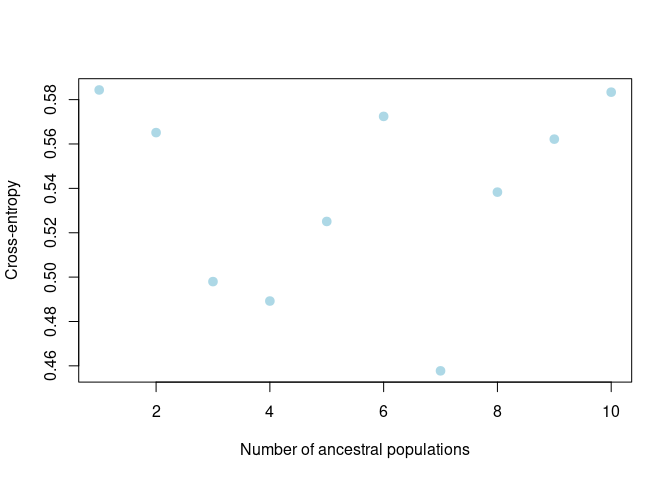
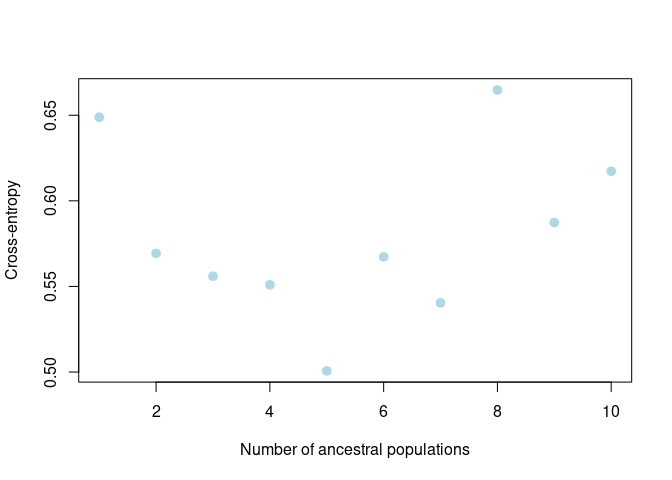
Bug correction (computation of monomorphic loci, metapop)

diff --git a/FORGENIUS-pipeline.md b/FORGENIUS-pipeline.md
@@ -1,7 +1,7 @@
 FORGENIUS-pipeline, test 20 SNPs
 ================
 SCGM & MW
-2024-10-18
+2025-01-12
 
 Load packages
 
@@ -20,12 +20,12 @@ library(miscTools)
 library(dartR)
 library(poppr)
 library(ggplot2)
+library(kableExtra)
 
 # maybe needed, to check:
 #library(knitr)
 #library(htmltools)
 #library(stringr)
-#library(kableExtra)
 #library(radiant.data)
 
 
@@ -45,9 +45,11 @@ Read data, filtering and convert to different formats
 # keep only random SNPs in VCF file using a bed file to filter in vcftools
 # system2("functions/extract_random.sh") # change input and output file names in functions/extract_random.sh
 
-# read data from VCF into genind format
+# define file name
 species_name = "Aalba" #change species name if needed
 suffix = "_20SNPs" #change suffix if needed
+
+# read data from VCF into genind format
 data_file <- paste("data/", species_name, suffix, ".vcf.gz", sep="")
 data_vcf <- read.vcfR(data_file) 
 ```
@@ -75,9 +77,10 @@ data_genind <- vcfR2genind(data_vcf)
 pop(data_genind) <- substr(indNames(data_genind), 1,8) #takes pop name from the first 8 digits of sample name, e.g. AUT00215
 
 # read data from genotype file (e.g., from Axiom chips) into genind format
-#data <- read.table("data/POPGEN_data_curated_Affx_2use_JULY2022_miss30.txt", header=T)
-#data[1:10,1:10] %>% kable_mydf(boldfirstcolumn = F, font_size = 11) # visualization
-#data_genind <- df2genind(X = data[, -(1:2)], sep="/", pop = data[, 2], ind.names = data[, 1], NA.char ="NA") #change column numbers, separator or missing data string if needed
+# data_file <- paste("data/", species_name, suffix, ".txt", sep="")
+# data <- read.table(data_file, header=T)
+# data[1:10,1:10] %>% kable_mydf(boldfirstcolumn = F, font_size = 11) # visualization
+# data_genind <- df2genind(X = data[, -(1:2)], sep="/", pop = data[, 2], ind.names = data[, 1], NA.char ="NA") #change column numbers, separator or missing data string if needed
 
 # Remove loci with too much missing data from genind object
 #data_genind <- missingno(data_genind, type = "loci", cutoff = 0.05, quiet = FALSE, freq = FALSE)
@@ -90,8 +93,17 @@ pop(data_genind) <- substr(indNames(data_genind), 1,8) #takes pop name from the 
 #data_genind = data_genind[loc=loci2keep] # filter by locus name in list
 
 # Filter by Minor Allele Frequency (MAF) from genind object
-#data_genind <- informloci(data_genind, cutoff = 2/nInd(data_genind), MAF = 0.01, quiet = FALSE)
+data_genind <- informloci(data_genind, cutoff = 2/nInd(data_genind), MAF = 0.00, quiet = FALSE) # Keep at least 0.00, to remove monomorphic loci in the full dataset
+```
 
+    ## cutoff value: 0.484261501210654 % ( 2 samples ).
+
+    ## MAF         : 0
+
+    ## 
+    ## All sites polymorphic
+
+``` r
 # extract individual names
 individual_names<-indNames(data_genind)
 
@@ -218,29 +230,29 @@ barchart (data_snmf, best_K, best_run, sort.by.Q = T, col = rainbow(best_K), bor
 ![](FORGENIUS-pipeline_files/figure-gfm/Estimate%20admixture%20coefficients-2.png)<!-- -->
 
     ## $order
-    ##   [1]  14  16  79  83 143 206 208 211 212 269 273 274 275 279 281 288 305 307
-    ##  [19] 318 320 338 350 355 357 370 374 381  11  19  23  27  37  38  56  59  65
-    ##  [37]  69  70  72  74  76  80  82  84  88 125 139 170 171 181 190 191 194 200
-    ##  [55] 224 242 243 246 248 250 256 259 270 271 276 282 285 289 290 292 294 297
-    ##  [73] 300 303 308 309 317 328 334 339 340 343 345 346 349 352 366 367 378 384
-    ##  [91] 386 392 398 399 408  30  32  34  54  60  62  63 114 119 130 136 138 142
-    ## [109] 154 164 165 180 188 189 195 196 198 202 214 240 241 247 249 251 252 255
-    ## [127] 257 258 260 263 264 265 266 286 293 301 302 310 311 313 315 316 322 323
-    ## [145] 324 325 326 327 329 330 332 336 341 342 344 348 351 354 360 364 369 376
-    ## [163] 377 380 385 387 391 394 396 397 400 403 405 406 410 411 413   3   9  12
-    ## [181]  13  20  21  24  25  28  29  33  35  40  43  44  45  47  50  51  52  53
-    ## [199]  61  64  67  73  75  78  81  85  86  87  89  92  94  99 101 103 106 109
-    ## [217] 112 115 116 117 120 121 122 126 127 128 129 132 134 135 137 140 155 162
-    ## [235] 163 166 167 168 173 178 179 183 185 187 192 193 197 199 204 205 207 209
-    ## [253] 218 219 220 229 230 233 234 239 244 254 262 272 277 278 280 283 287 291
-    ## [271] 296 299 306 321 331 333 337 347 356 358 359 363 368 371 373 379 382 383
-    ## [289] 389 401 404 407 412   1   2   4   5   6   7   8  10  15  17  18  22  26
-    ## [307]  31  36  39  41  42  46  48  49  55  57  58  66  68  71  77  90  91  93
-    ## [325]  95  96  97  98 100 102 104 105 107 108 110 111 113 118 123 124 131 133
-    ## [343] 141 144 145 146 147 148 149 150 151 152 153 156 157 158 159 160 161 169
-    ## [361] 172 174 175 176 177 182 184 186 201 203 210 213 215 216 217 221 222 223
-    ## [379] 225 226 227 228 231 232 235 236 237 238 245 253 261 267 268 284 295 298
-    ## [397] 304 312 314 319 335 353 361 362 365 372 375 388 390 393 395 402 409
+    ##   [1]  27  33  59  64  68  76  77 181 191 210 243 270 271 282 285 287 300 392
+    ##  [19] 399  14  16  79  83 143 206 208 211 212 269 273 274 275 278 279 281 288
+    ##  [37] 305 318 320 338 350 355 357 381   4   5  10  13  22  28  40  46  47  52
+    ##  [55]  61  71  73  86  99 100 101 102 103 105 122 132 167 170 172 174 176 182
+    ##  [73] 187 192 193 207 209 213 229 230 280 291 292 296 307 319 331 340 363 366
+    ##  [91] 370 371 372 373 382 384 401 404 412  24  30  32  34  54  60  62  63 114
+    ## [109] 119 130 136 138 142 154 164 165 180 188 189 195 196 197 198 202 214 240
+    ## [127] 241 249 251 252 254 255 257 258 260 263 264 265 266 286 293 301 302 310
+    ## [145] 311 313 315 316 322 323 324 325 326 327 329 330 332 336 341 342 344 348
+    ## [163] 351 354 359 360 364 369 374 376 377 380 385 387 391 394 396 397 400 403
+    ## [181] 405 406 410 411 413   1   2   3   6   7   8   9  11  12  15  17  18  19
+    ## [199]  20  21  23  25  26  29  31  35  36  37  38  39  41  42  43  44  45  48
+    ## [217]  49  50  51  53  55  56  57  58  65  66  67  69  70  72  74  75  78  80
+    ## [235]  81  82  84  85  87  88  89  90  91  92  93  94  95  96  97  98 104 106
+    ## [253] 107 108 109 110 111 112 113 115 116 117 118 120 121 123 124 125 126 127
+    ## [271] 128 129 131 133 134 135 137 139 140 141 144 145 146 147 148 149 150 151
+    ## [289] 152 153 155 156 157 158 159 160 161 162 163 166 168 169 171 173 175 177
+    ## [307] 178 179 183 184 185 186 190 194 199 200 201 203 204 205 215 216 217 218
+    ## [325] 219 220 221 222 223 224 225 226 227 228 231 232 233 234 235 236 237 238
+    ## [343] 239 242 244 245 246 247 248 250 253 256 259 261 262 267 268 272 276 277
+    ## [361] 283 284 289 290 294 295 297 298 299 303 304 306 308 309 312 314 317 321
+    ## [379] 328 333 334 335 337 339 343 345 346 347 349 352 353 356 358 361 362 365
+    ## [397] 367 368 375 378 379 383 386 388 389 390 393 395 398 402 407 408 409
 
 ``` r
 # estimate ancestry coefficients by pop
@@ -278,15 +290,17 @@ Compute number of polymorphic loci per population
 
 ``` r
 # Estimate allele frequency in adegenet
-allele_freq <- tab(data_genpop)
+allele_freq <- tab(data_genpop, freq=TRUE)
 
 # Count monomorphic loci and missing loci per population
 monomorphic_counts <- rowSums(allele_freq == 1)
 nb_loci <- rowSums(allele_freq != "NA")/2
-polymoprhic_loci <- 1-(monomorphic_counts/nb_loci)
+nb_loci_zero <- rowSums(allele_freq == 0)
+nb_loci_noNA = nb_loci - (nb_loci_zero-monomorphic_counts)/2
+polymoprhic_loci <- 1-(monomorphic_counts/nb_loci_noNA)
 ```
 
-Compute genetic diveristy and inbreeding stats with hierfstat
+Compute genetic diversity and inbreeding stats with hierfstat
 
 ``` r
 # Compute basic statistics
@@ -303,16 +317,16 @@ metapop2
 system2("./metapop/metapop", arg = "metapop/data_genepop metapop/config")
 
 # Clean-up
-file.copy("res_run_FULL.md", "metapop/results")
+file.copy("res_run_FULL.md", "metapop/results", overwrite = TRUE)
 ```
 
-    ## [1] FALSE
+    ## [1] TRUE
 
 ``` r
-file.copy("res_run_p.csv", "metapop/results")
+file.copy("res_run_p.csv", "metapop/results",  overwrite = TRUE)
 ```
 
-    ## [1] FALSE
+    ## [1] TRUE
 
 ``` r
 file.remove("res_run_FULL.md")
